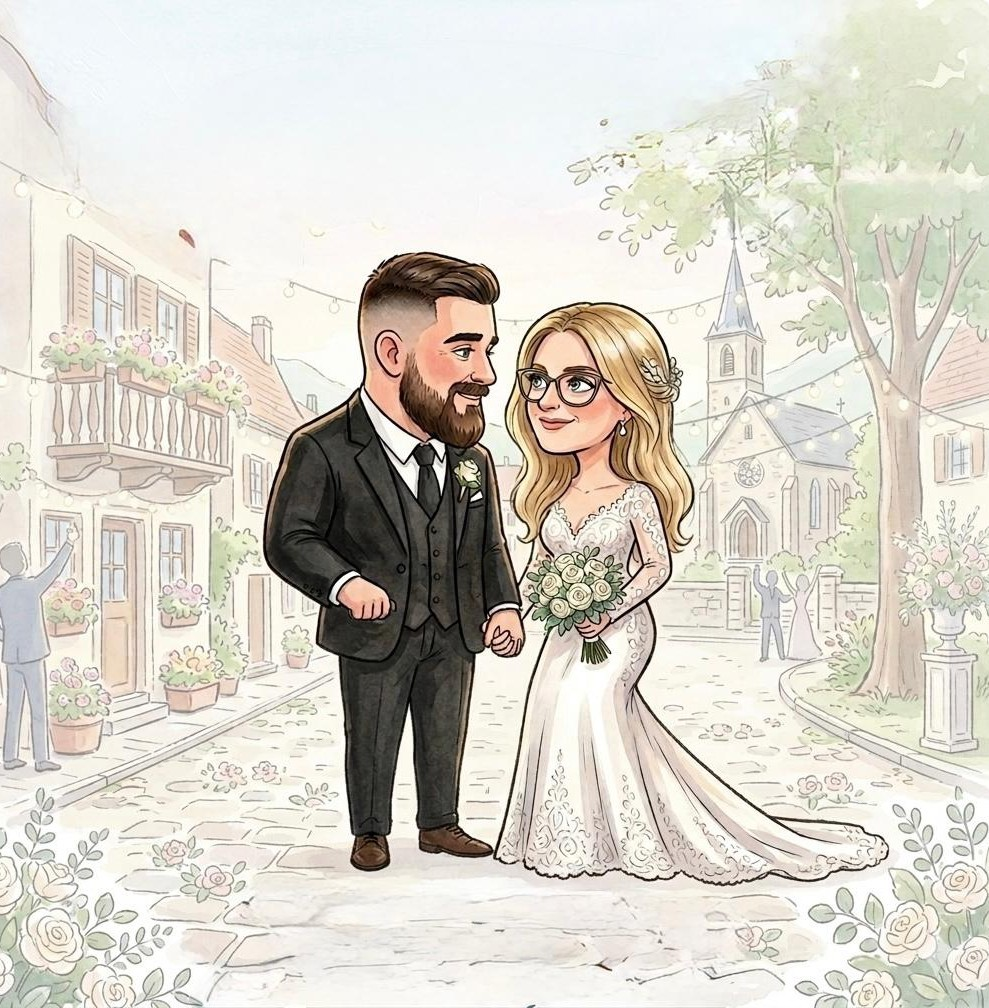
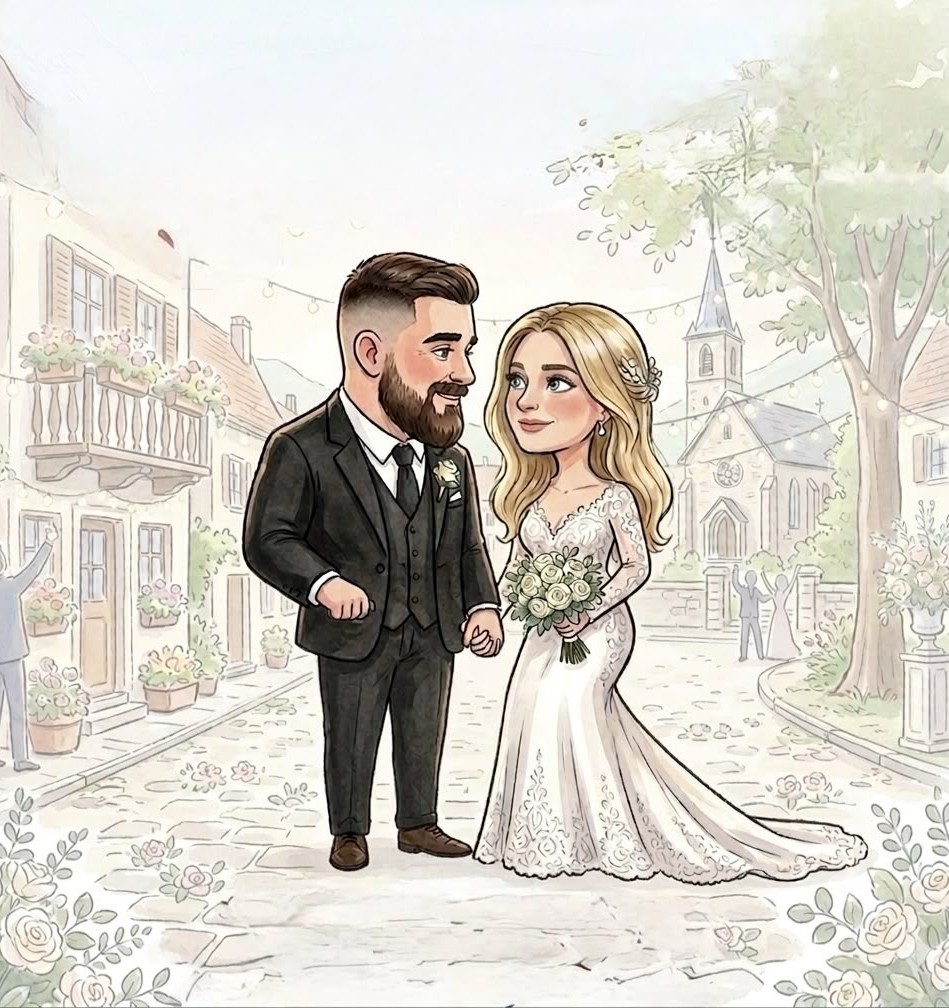
Small changes!

diff --git a/src/Wedding.tsx b/src/Wedding.tsx
@@ -19,7 +19,7 @@ const WEDDING = {
   secondName: "Arlinda",
   initials: "N & A",
 
-  date: new Date(2026, 7, 24, 18, 0, 0),
+  date: new Date("2026-08-13T19:00:00"),
   dayName: "E Enjte",
   dateText: "13 Gusht 2026",
   ceremonyTime: "19:00",
